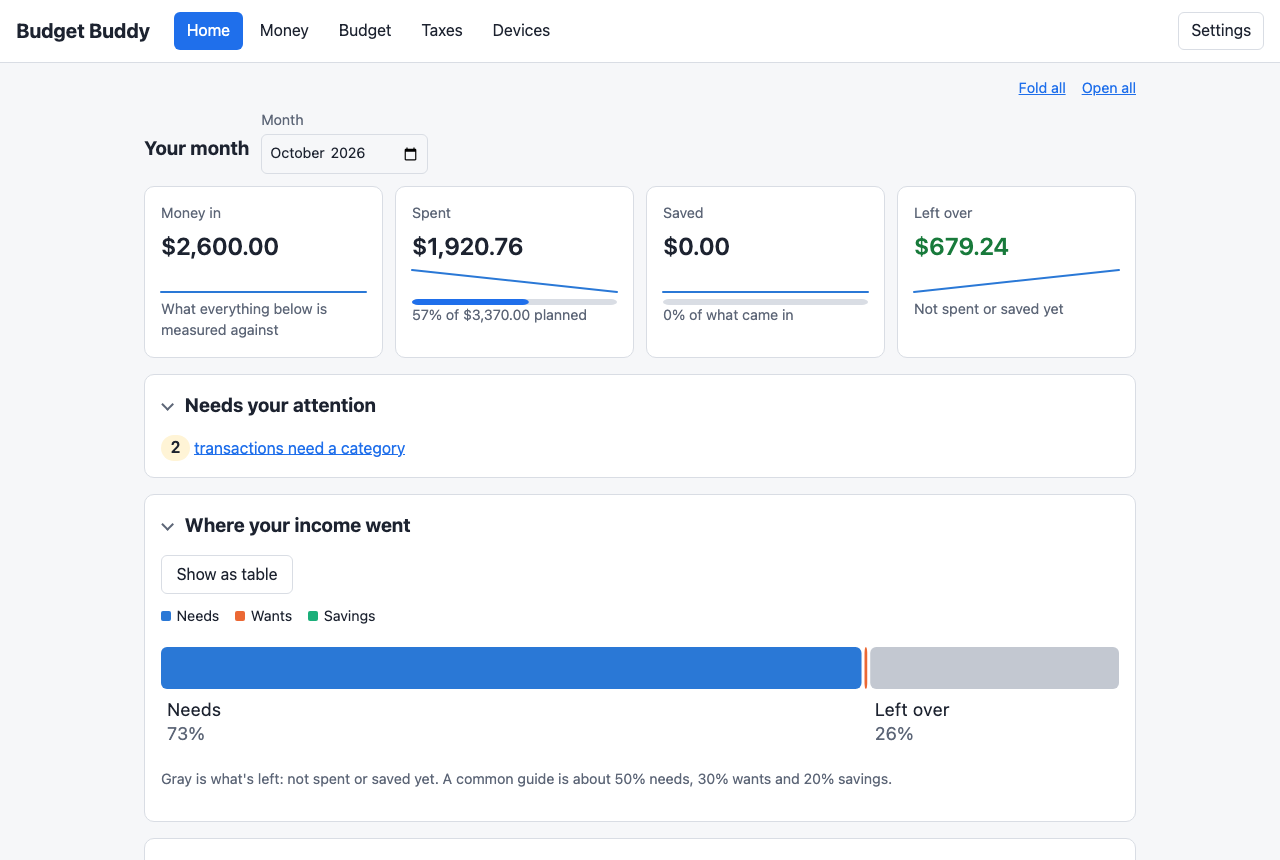
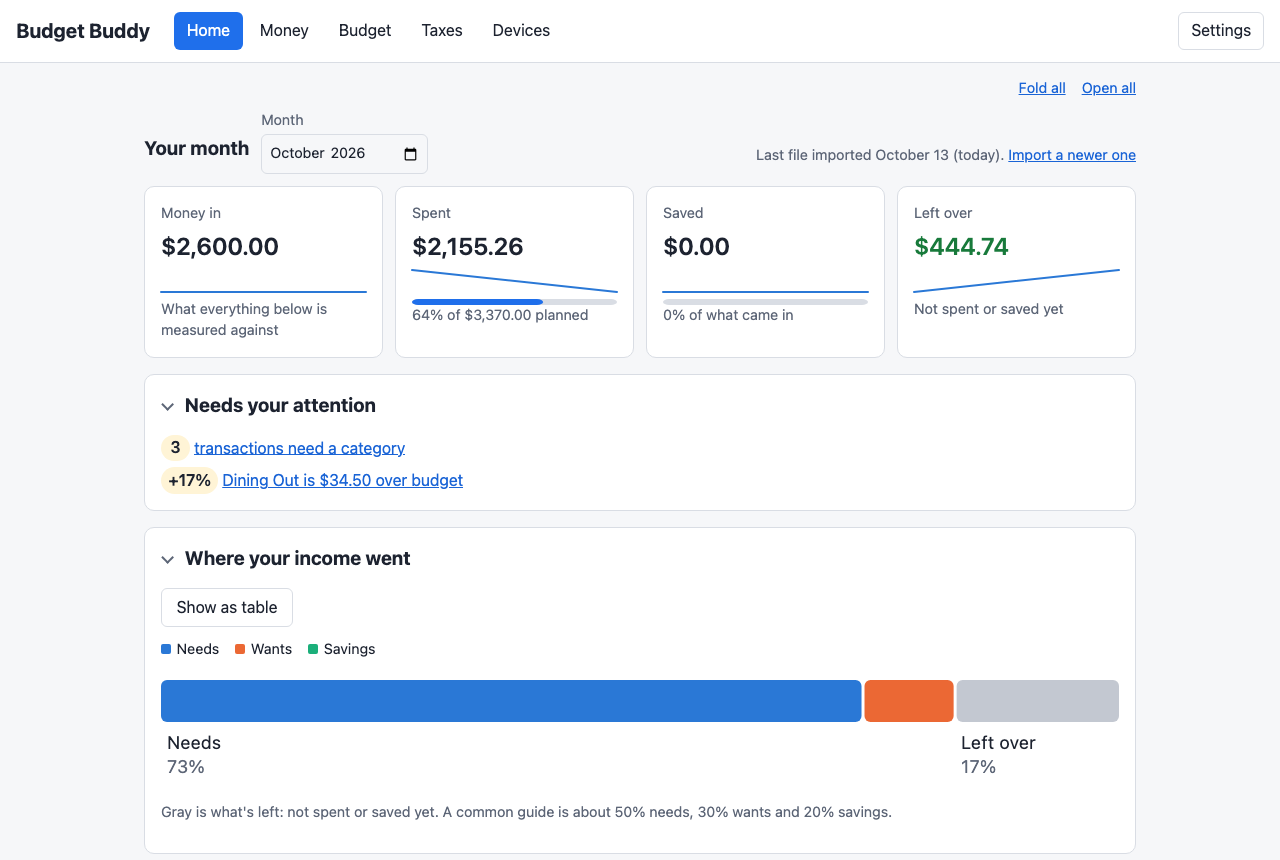
Home: over-budget categories, last import, clickable category bars
From dashboard patterns (flag what's over budget, let a chart's piece
open its transactions, show how fresh the data is):
- Needs your attention lists needs/wants categories over budget with
  the percent over (category-groups.overBudget/overBadge). Percentage
  budgets are skipped mid-month when they follow actual income.
- The Home toolbar says when a file was last imported (UTC created_at to
  a local date: dates.localDate, daysBetween, agoText).
- Category bars link to their transactions (out of the Tab order; the
  table has the same links).
- Showcase: light and dark Home screenshots and a Light or dark section.

finance-tax-expert reviewed; its three findings are fixed.

diff --git a/dashboard/js/screens/home.js b/dashboard/js/screens/home.js
@@ -3,10 +3,11 @@
 // month by month, and what you have and owe. Every chart can also be read as a table.
 
 import {
-  listAccounts, listPositions, listTransactions, monthlySummary, monthlyTrend, payDeposits, stockHoldings,
+  listAccounts, listImports, listPositions, listTransactions, monthlySummary, monthlyTrend, payDeposits, stockHoldings,
 } from "../api/endpoints.js";
+import { overBadge, overBudget } from "../category-groups.js";
 import { comparedWith, fromFirstActivity } from "../charts/months.js";
-import { currentMonth, today } from "../dates.js";
+import { agoText, currentMonth, daysBetween, localDate, monthName, today } from "../dates.js";
 import { fill, h } from "../dom.js";
 import { empty, table } from "../widgets.js";
 import { groupLabel } from "../labels.js";
@@ -44,10 +45,20 @@ function budgetTable(summary) {
     summary.categories.some((c) => c.budget_percent_bp !== null) ? empty(incomeBasis(summary)) : null);
 }
 
+// When a file was last imported, so it's clear how up to date these numbers are.
+function freshness(imports) {
+  if (!imports.length) return null;
+  const last = imports.map((i) => localDate(i.created_at)).sort().at(-1);
+  return h("p", { class: "muted fresh" },
+    `Last file imported ${monthName(last)} ${Number(last.slice(8))} (${agoText(daysBetween(last, today()))}).`, " ",
+    h("a", { href: "#import" }, "Import a newer one"));
+}
+
 export async function render(root, options) {
   const month = options.month || currentMonth();
   const days = comparedWith(month, today());
-  const [summary, trend, accounts, waiting, deposits, positions, held, anyTransaction, soFar, before] = await Promise.all([
+  const [summary, trend, accounts, waiting, deposits, positions, held, anyTransaction, soFar, before, imports] =
+    await Promise.all([
     monthlySummary(month),
     monthlyTrend(month),
     listAccounts(),
@@ -58,6 +69,7 @@ export async function render(root, options) {
     listTransactions(new URLSearchParams({ limit: "1" })),
     days.through ? monthlySummary(month, days.through) : null,
     monthlySummary(days.previous, days.previousThrough),
+    listImports(),
   ]);
   const months = fromFirstActivity(trend.months);
   const picker = h("input", { type: "month", value: summary.month, "aria-label": "Month" });
@@ -69,7 +81,7 @@ export async function render(root, options) {
   fill(root,
     startCard({ accounts: accounts.length > 0, transactions: hasTransactions,
       budgets: summary.categories.some((c) => c.group !== "income" && c.budget_cents > 0) }),
-    h("div", { class: "toolbar" }, h("h2", {}, "Your month"), h("label", {}, "Month", picker)),
+    h("div", { class: "toolbar" }, h("h2", {}, "Your month"), h("label", {}, "Month", picker), freshness(imports)),
     // While the month is going, its own point would dip (a part month): the tiles' lines show the months before it.
     monthTiles(summary, days.through ? months.slice(0, -1) : months),
     hasTransactions && attentionCard([
@@ -79,6 +91,13 @@ export async function render(root, options) {
         text: deposits.length === 1 ? "pay deposit to fill in on Paychecks" : "pay deposits to fill in on Paychecks" },
       { count: mismatched, href: "#investments", text: mismatched === 1
         ? "position doesn't match your recorded trades" : "positions don't match your recorded trades" },
+      // Mid-month, a percentage of the income received so far isn't the month's budget yet.
+      ...overBudget(summary.categories, { skipPercent: Boolean(days.through) && summary.budget_income_source === "actual" })
+        .map((c) => ({
+          count: 1, badge: overBadge(c.over_percent),
+          href: `#transactions?category=${c.category_id}&month=${summary.month}`,
+          text: `${c.name} is ${formatCents(c.over_cents)} over budget`,
+        })),
     ]),
     hasTransactions && [
       incomeSplitCard(summary),

diff --git a/dashboard/tests/category-groups.test.js b/dashboard/tests/category-groups.test.js
@@ -3,7 +3,7 @@
 import assert from "node:assert/strict";
 import test from "node:test";
 
-import { byGroup } from "../js/category-groups.js";
+import { byGroup, overBadge, overBudget } from "../js/category-groups.js";
 
 const cat = (name, group, budget_cents = 0, budget_percent_bp = null) => ({ name, group, budget_cents, budget_percent_bp });
 
@@ -20,4 +20,36 @@ test("amounts and percentages add up separately", () => {
   assert.equal(needs.categories.length, 4);
   assert.equal(needs.budget_cents, 210_000);
   assert.equal(needs.budget_percent_bp, 1_550);
+});
+
+const row = (category_id, name, group, budget_cents, actual_cents, budget_percent_bp = null) =>
+  ({ category_id, name, group, budget_cents, actual_cents, budget_percent_bp });
+
+test("over budget: needs and wants past a budget, most over first", () => {
+  const rows = [row(1, "Food", "needs", 60_000, 65_000), row(2, "Fun", "wants", 10_000, 23_499),
+    row(3, "Rent", "needs", 150_000, 150_000), row(4, "Gifts", "wants", 0, 5_000),
+    row(5, "Save", "savings", 100, 900), row(6, "Pay", "income", 0, 9_000)];
+  assert.deepEqual(overBudget(rows), [
+    { category_id: 2, name: "Fun", over_cents: 13_499, over_percent: 134 },
+    { category_id: 1, name: "Food", over_cents: 5_000, over_percent: 8 }]);
+  assert.deepEqual(overBudget([]), []);
+  assert.deepEqual(overBudget([row(1, "B", "needs", 100, 200), row(2, "A", "wants", 100, 200)]).map((r) => r.name),
+    ["A", "B"]);
+});
+
+test("over budget: refunds bigger than spending, and a percentage budget with no income yet, are never over", () => {
+  assert.deepEqual(overBudget([row(1, "Shop", "wants", 15_000, -2_399), row(2, "Fun", "wants", 0, 4_000, 1_000)]), []);
+});
+
+test("while the month is going on income so far, percentage budgets are left out", () => {
+  const rows = [row(1, "Food", "needs", 30_000, 40_000, 1_500), row(2, "Fun", "wants", 10_000, 12_000)];
+  assert.deepEqual(overBudget(rows).map((r) => r.name), ["Food", "Fun"]);
+  assert.deepEqual(overBudget(rows, { skipPercent: true }).map((r) => r.name), ["Fun"]);
+});
+
+test("the over-budget badge never says +0%", () => {
+  assert.equal(overBadge(17), "+17%");
+  assert.equal(overBadge(0), "<1%");
+  const [tiny] = overBudget([row(1, "Food", "needs", 10_000, 10_001)]);
+  assert.equal(overBadge(tiny.over_percent), "<1%");
 });

diff --git a/dashboard/js/charts/budget-bars.js b/dashboard/js/charts/budget-bars.js
@@ -1,5 +1,6 @@
 // Spent against budget: one bar per row for what was spent, and a short dark line where the budget is.
-// rows: [{ label, actual, budget }] in cents. Hovering a row shows the exact amounts.
+// rows: [{ label, actual, budget, href? }] in cents. Hovering a row shows the exact amounts; with href, clicking it
+// opens that page (left out of the Tab order: the same links are in the chart's table, for keyboards and screen readers).
 
 import { formatCents, shortDollars } from "../money.js";
 import { percentUsed } from "../percent.js";
@@ -23,13 +24,14 @@ function row(r, i, x) {
   const spent = Math.max(0, r.actual);
   const over = r.budget > 0 && r.actual > r.budget;
   const value = `${shortDollars(spent)}${r.budget > 0 ? ` of ${shortDollars(r.budget)}` : ""}${over ? " (over)" : ""}`;
-  return s("g", { class: "row" },
+  const g = s("g", { class: r.href ? "row linked" : "row" },
     s("title", {}, rowTitle(r)),
     s("rect", { class: "hit", x: 0, y: top, width: WIDTH, height: ROW }),
     s("text", { class: "label", x: 0, y: top + 21 }, r.label),
     spent > 0 ? s("rect", { class: "bar", x: BAR_X, y: top + 10, width: x(spent) - BAR_X, height: 14, rx: 3 }) : null,
     r.budget > 0 ? s("line", { class: "budget-mark", x1: x(r.budget), x2: x(r.budget), y1: top + 5, y2: top + 29 }) : null,
     s("text", { x: BAR_END + 10, y: top + 21 }, value));
+  return r.href ? s("a", { href: r.href, tabindex: "-1" }, g) : g;
 }
 
 export function budgetBars(rows, description) {

diff --git a/dashboard/tests/dates.test.js b/dashboard/tests/dates.test.js
@@ -32,3 +32,24 @@ test("monthName gives the whole month name for sentences", async () => {
   assert.equal(monthName("2026-09"), "September");
   assert.equal(monthName("2025-12"), "December");
 });
+
+test("days between dates, and in words", async () => {
+  const { agoText, daysBetween } = await import("../js/dates.js");
+  assert.equal(daysBetween("2026-10-13", "2026-10-13"), 0);
+  assert.equal(daysBetween("2026-10-02T21:15:00", "2026-10-13"), 11);
+  assert.equal(daysBetween("2026-02-28", "2026-03-01"), 1);
+  assert.equal(daysBetween("2025-12-31", "2026-01-01"), 1);
+  assert.equal(daysBetween("2026-03-07", "2026-03-09"), 2); // across the clocks changing
+  assert.equal(agoText(0), "today");
+  assert.equal(agoText(-1), "today");
+  assert.equal(agoText(1), "yesterday");
+  assert.equal(agoText(12), "12 days ago");
+});
+
+test("a UTC time becomes this computer's date", async () => {
+  const { localDate } = await import("../js/dates.js");
+  assert.equal(localDate("2026-10-13T02:30:00", 360), "2026-10-12"); // 6 hours behind UTC: still the evening before
+  assert.equal(localDate("2026-10-13T02:30:00", 0), "2026-10-13");
+  assert.equal(localDate("2026-10-13T22:30:00", -120), "2026-10-14"); // 2 hours ahead
+  assert.match(localDate("2026-10-13T12:00:00"), /^2026-10-1[2-4]$/);
+});

diff --git a/dashboard/js/category-groups.js b/dashboard/js/category-groups.js
@@ -14,3 +14,21 @@ export function byGroup(categories) {
     };
   }).filter((g) => g.categories.length);
 }
+
+// Needs and wants categories that went over their budget this month (monthly summary rows), most over first:
+// [{ category_id, name, over_cents, over_percent }]. over_percent is how far past the budget, rounded down.
+// skipPercent: leave out percentage budgets, for a month still going whose budgets follow the income received so far
+// (a share of half a month's pay isn't the month's budget yet).
+export function overBudget(categories, { skipPercent = false } = {}) {
+  return categories
+    .filter((c) => (c.group === "needs" || c.group === "wants") && c.budget_cents > 0 && c.actual_cents > c.budget_cents)
+    .filter((c) => !(skipPercent && c.budget_percent_bp !== null))
+    .map((c) => ({
+      category_id: c.category_id, name: c.name, over_cents: c.actual_cents - c.budget_cents,
+      over_percent: Math.floor(((c.actual_cents - c.budget_cents) * 100) / c.budget_cents),
+    }))
+    .sort((a, b) => b.over_cents - a.over_cents || a.name.localeCompare(b.name));
+}
+
+// The badge for how far over: "+17%", or "<1%" when it rounds down to nothing.
+export const overBadge = (percent) => (percent > 0 ? `+${percent}%` : "<1%");

diff --git a/dashboard/js/dates.js b/dashboard/js/dates.js
@@ -32,3 +32,21 @@ const NAMES = ["January", "February", "March", "April", "May", "June", "July", "
 
 // "2026-09" -> "September", for sentences.
 export const monthName = (month) => NAMES[Number(month.split("-")[1]) - 1];
+
+// Whole days from "YYYY-MM-DD..." (a date, or the date part of a date and time) to `today` ("YYYY-MM-DD").
+export function daysBetween(from, today) {
+  const day = (text) => Date.UTC(...text.slice(0, 10).split("-").map((n, i) => Number(n) - (i === 1 ? 1 : 0)));
+  return Math.round((day(today) - day(from)) / 86_400_000);
+}
+
+// "today", "yesterday" or "12 days ago".
+export function agoText(days) {
+  if (days <= 0) return "today";
+  return days === 1 ? "yesterday" : `${days} days ago`;
+}
+
+// The local "YYYY-MM-DD" of a time the Home Base saved in UTC without saying so ("2026-10-13T02:30:00").
+// offsetMinutes: this computer's offset from UTC as getTimezoneOffset() gives it (minutes behind UTC).
+export function localDate(utcText, offsetMinutes = new Date(`${utcText}Z`).getTimezoneOffset()) {
+  return new Date(Date.parse(`${utcText}Z`) - offsetMinutes * 60_000).toISOString().slice(0, 10);
+}

diff --git a/dashboard/js/screens/home-tiles.js b/dashboard/js/screens/home-tiles.js
@@ -58,10 +58,11 @@ export function monthTiles(s, months = []) {
       line((m) => m.income_cents - m.spending_cents - m.saved_cents, "Left over")));
 }
 
-// items: [{ count, text, href }] - only the ones with something to do are shown.
+// items: [{ count, text, href, badge? }] - only the ones with something to do are shown. The badge (like "+18%")
+// shows instead of the count.
 export function attentionCard(items) {
   const todo = items.filter((i) => i.count > 0);
   if (!todo.length) return card(null, h("p", { class: "ok" }, "All caught up: nothing needs you right now."));
   return card("Needs your attention", h("ul", { class: "todo" }, todo.map((i) =>
-    h("li", {}, h("span", { class: "count" }, String(i.count)), " ", h("a", { href: i.href }, i.text)))));
+    h("li", {}, h("span", { class: "count" }, i.badge || String(i.count)), " ", h("a", { href: i.href }, i.text)))));
 }

diff --git a/dashboard/js/screens/home-charts.js b/dashboard/js/screens/home-charts.js
@@ -30,11 +30,13 @@ export function groupsChart(summary) {
 export function categoriesChart(summary, budgetTable) {
   const rows = summary.categories
     .filter((c) => c.group !== "income" && (c.budget_cents > 0 || c.actual_cents !== 0))
-    .map((c) => ({ label: c.name, actual: c.actual_cents, budget: c.budget_cents }));
+    .map((c) => ({ label: c.name, actual: c.actual_cents, budget: c.budget_cents,
+      href: `#transactions?category=${c.category_id}&month=${summary.month}` }));
   return chartCard("Budget and actual by category", {
     chart: rows.length ? budgetBars(rows, "Spent in each category this month, with its budget marked")
       : empty("Nothing spent or budgeted yet this month."),
     table: budgetTable,
+    note: empty("Click a category to see its transactions."),
   });
 }
 

diff --git a/dashboard/app.css b/dashboard/app.css
@@ -116,6 +116,9 @@ textarea.code { width: 100%; min-height: 6rem; font-family: ui-monospace, Consol
 .chart .dot { fill: var(--series); stroke: var(--card); stroke-width: 2; }
 .chart .hit { fill: transparent; pointer-events: all; }
 .chart .row:hover .hit { fill: var(--line); opacity: 0.35; }
+.chart .linked { cursor: pointer; }
+.chart .linked:hover text.label { text-decoration: underline; }
+.toolbar .fresh { margin: 0 0 0.5rem auto; }
 .chart .crosshair { stroke: var(--muted); stroke-width: 1; }
 .chart .tip-box { fill: var(--card); stroke: var(--line); }
 .chart .tip text { fill: var(--text); }

diff --git a/docs/guide/open-the-dashboard.md b/docs/guide/open-the-dashboard.md
@@ -28,8 +28,13 @@ The **Home** page shows your month at a glance:
   have two months, each tile also has a small line showing that number month by month (point at it for the
   amounts). While a month is still going, the line shows the months before it, since a part month would always
   look like a dip.
-- **Needs your attention:** transactions with no category, pay deposits to fill in, and investment positions
-  that don't match your recorded trades. Click one to go there. "All caught up" means nothing's waiting.
+- **Needs your attention:** transactions with no category, pay deposits to fill in, investment positions
+  that don't match your recorded trades, and any needs or wants category that's over its budget this month (like
+  "+17% Dining Out is $34.50 over budget"). A budget set as a percentage of income is only checked once the month is
+  over, unless you've set a planned monthly income on the Categories page: until then, its share of the pay that's
+  come in so far isn't the month's budget yet. Click one to go there. "All caught up" means nothing's waiting.
+- **Last file imported:** next to the month, when you last imported a file from your bank or broker, so you know
+  how up to date the numbers are.
 - **Where your income went:** one bar the length of your income, split into needs, wants and savings, with what's
   left over in gray. If you spent and saved more than came in, a line marks where your income ran out.
 - **What you have and owe:** your net worth, and a bar for each account: money you have to the right, money you
@@ -39,7 +44,7 @@ It also has these charts:
 
 - **Needs, wants and savings** and **Budget and actual by category:** a bar for what you've spent this month,
   and a short upright line where your budget is. If the bar goes past the line, you're over budget (the amount
-  on the right also says "over").
+  on the right also says "over"). Click a category's bar to see its transactions for the month.
 - **Compared with last month:** for each needs or wants category whose spending changed, a bar to the right if you
   spent more than last month and to the left if you spent less, with the amount in words. While the month is still
   going, it compares this month so far with the same days of last month (the 1st to the 13th against the 1st to

diff --git a/docs/dev/architecture/dashboard.md b/docs/dev/architecture/dashboard.md
@@ -87,7 +87,13 @@ a neutral gray left over), spending against budget (by group and by category), s
 in words; the same days of last month while the month is going, via the summary's `through`), month by month (from
 the first month with activity, up to 12) of money in,
 spending and saving, and balances as bars either side of zero with net worth (`charts/balance-bars.js`; have =
-series 1, owe = series 2). Each money tile has a sparkline of its own number over the same months.
+series 1, owe = series 2). Each money tile has a sparkline of its own number over the same months. "Needs your attention" adds needs and
+wants categories over budget (`category-groups.js` `overBudget`, with the percent over as the badge, "<1%" rather
+than "+0%"; percentage budgets are skipped while the month is going and budgets follow actual income, since a share of
+part of a month's pay isn't the month's budget), and the
+toolbar says when a file was last imported (`imports` list; its UTC `created_at` becomes a local date with
+`dates.localDate`). Category bars link to `#transactions?category=&month=` (an SVG `<a>` left out of the Tab order;
+the chart's table has the same links for keyboards and screen readers).
 Their maths is in `charts/shares.js` and `charts/months.js`, covered 100% like `scale.js`. They are SVG built in code (`js/charts/`), with no chart library and nothing loaded from the internet, so
 the CSP and the safety tests are unchanged; the only web address in them is the SVG namespace in `js/charts/svg.js`,
 which the static test allows by exact match. Every chart has a "Show as table" switch and an `aria-label`. The

diff --git a/CHANGELOG.md b/CHANGELOG.md
@@ -2,6 +2,7 @@
 
 ## Unreleased
 - Light and dark look alike: in dark mode the current section and the main buttons are the same blue with white text as in light mode (they were pale blue with black text), links are easier to read in light mode, and the yellow count badges match.
+- Home flags spending that's over budget ("+17% Dining Out is $34.50 over budget") under **Needs your attention**, says when you last imported a file so you know how fresh the numbers are, and a category's bar in **Budget and actual by category** opens its transactions.
 - New screenshots in the README and the showcase tour, showing the folding boxes, the new Home charts and the Transactions search. The demo data's everyday spending now changes a little from month to month, so the month-to-month charts have something to show.
 - For maintainers: GitHub CI is paused until 2026-11-22 (it runs only by hand). When it's back it runs on pull requests into `main` and on `main`, not on stacked branches.
 - Check your stock records: the broker's positions file is now compared both ways (a stock you still hold by your records but the broker doesn't list is flagged), says whether a purchase or a sale may be missing, and counts bank-file trades still waiting for their shares. On the Stocks page each purchase and sale says what backs it up (a transaction, the broker's positions file, or **Not verified yet**), and **Show: Not verified yet** lists only those.
